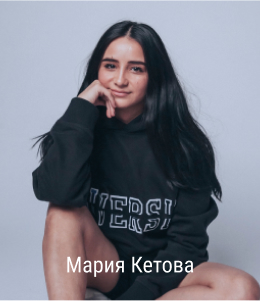
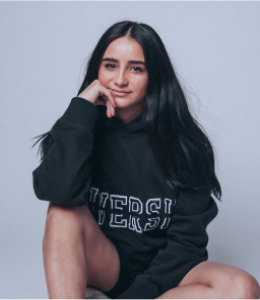
Updated images Updated juri section

diff --git a/source/index.html b/source/index.html
@@ -302,33 +302,37 @@
       <div class="juri__wrapper">
         <ul class="juri__list">
           <li class="juri__item juri-card">
-            <picture>
-              <source type="image/webp"
-                    srcset="img/juri/juri-1@1x.webp 1x, img/juri/juri-1@2x.webp 2x" width="280" height="300">
-              <img class="juri-card__image" src="img/juri/juri-1@1x.jpg" srcset="img/juri/juri-1@2x.jpg 2x" width="260"
-              height="301" alt="Анна Павлова">
-            </picture>
+            <div class="juri-card__image-wrapper">
+                <picture>
+                  <source type="image/webp"
+                        srcset="img/juri/juri-1@1x.webp 1x, img/juri/juri-1@2x.webp 2x" width="260" height="300">
+                  <img class="juri-card__image" src="img/juri/juri-1@1x.jpg" srcset="img/juri/juri-1@2x.jpg 2x" width="260"
+                  height="300" alt="Анна Павлова">
+              </picture>
+            </div>
             <div class="juri-card__details">
               <p class="juri-card__title">
                 Анна Павлова
               </p>
               <div class="juri-card__info">
                 <p class="juri-card__sport">CrossFit</p>
-                <ul class="juri-card__achievements achievements">
-                  <li class="achievements__item">Certified Level 3 Trainer</li>
-                  <li class="achievements__item">Победитель чемпионата России по CrossFit</li>
-                  <li class="achievements__item">Опыт — 6 лет</li>
+                <ul class="juri-card__achievement-list">
+                  <li class="juri-card__achievement-item">Certified Level 3 Trainer</li>
+                  <li class="juri-card__achievement-item">Победитель чемпионата России по CrossFit</li>
+                  <li class="juri-card__achievement-item">Опыт — 6 лет</li>
                 </ul>
               </div>
             </div>
           </li>
           <li class="juri__item juri-card">
-            <picture>
-              <source type="image/webp"
-                    srcset="img/juri/juri-2@1x.webp 1x, img/juri/juri-2@2x.webp 2x" width="280" height="300">
-              <img class="juri-card__image" src="img/juri/juri-2@1x.jpg" srcset="img/juri/juri-2@2x.jpg 2x" width="260"
-              height="301" alt="Алексей Лавров">
-            </picture>
+            <div class="juri-card__image-wrapper">
+              <picture>
+                <source type="image/webp"
+                      srcset="img/juri/juri-2@1x.webp 1x, img/juri/juri-2@2x.webp 2x" width="260" height="300">
+                <img class="juri-card__image" src="img/juri/juri-2@1x.jpg" srcset="img/juri/juri-2@2x.jpg 2x" width="260"
+                height="300" alt="Алексей Лавров">
+              </picture>
+            </div>
             <div class="juri-card__details">
               <p class="juri-card__title">
                 Алексей Лавров
@@ -344,12 +348,14 @@
             </div>
           </li>
           <li class="juri__item juri-card">
-            <picture>
-              <source type="image/webp"
-                    srcset="img/juri/juri-3@1x.webp 1x, img/juri/juri-3@2x.webp 2x" width="280" height="300">
-              <img class="juri-card__image" src="img/juri/juri-3@1x.jpg" srcset="img/juri/juri-3@2x.jpg 2x" width="260"
-              height="301" alt="Александр Пашков">
-            </picture>
+            <div class="juri-card__image-wrapper">
+              <picture>
+                <source type="image/webp"
+                      srcset="img/juri/juri-3@1x.webp 1x, img/juri/juri-3@2x.webp 2x" width="260" height="300">
+                <img class="juri-card__image" src="img/juri/juri-3@1x.jpg" srcset="img/juri/juri-3@2x.jpg 2x" width="260"
+                height="300" alt="Александр Пашков">
+              </picture>
+            </div>
             <div class="juri-card__details">
               <p class="juri-card__title">
                 Александр Пашков
@@ -365,12 +371,14 @@
             </div>
           </li>
           <li class="juri__item juri-card">
-            <picture>
-              <source type="image/webp"
-                    srcset="img/juri/juri-4@1x.webp 1x, img/juri/juri-4@2x.webp 2x" width="280" height="300">
-              <img class="juri-card__image" src="img/juri/juri-4@1x.jpg" srcset="img/juri/juri-4@2x.jpg 2x" width="260"
-              height="301" alt="Мария Кетова">
-            </picture>
+            <div class="juri-card__image-wrapper">
+              <picture>
+                <source type="image/webp"
+                      srcset="img/juri/juri-4@1x.webp 1x, img/juri/juri-4@2x.webp 2x" width="260" height="300">
+                <img class="juri-card__image" src="img/juri/juri-4@1x.jpg" srcset="img/juri/juri-4@2x.jpg 2x" width="260"
+                height="300" alt="Мария Кетова">
+              </picture>
+            </div>
             <div class="juri-card__details">
               <p class="juri-card__title">
                 Мария Кетова

diff --git a/source/sass/blocks/juri-card.scss b/source/sass/blocks/juri-card.scss
@@ -2,24 +2,95 @@
 @use "../common/mixins.scss";
 
 .juri-card {
-  position: relative;
+  display: grid;
+  width: 100%;
+  height: 100%;
+  max-width: 260px;
+  background-color: variables.$background-color-accent;
+
+  @include mixins.mobile {
+    display: none;
+
+    &:first-child {
+      display: grid;
+    }
+  }
+
+  &:hover .juri-card__info {
+    display: block;
+  }
+
+  &:hover .juri-card__details {
+    height: 100%;
+    background-color: rgba(variables.$background-color-accent, 0.89);
+  }
+}
+
+.juri-card__image-wrapper {
+  grid-column: 1 / 2;
+  grid-row: 1 / 2;
   display: flex;
-  flex-direction: column;
   align-items: center;
   justify-content: center;
 }
 
-.juri-card__info {
-  position: absolute;
-  z-index: 1;
-  top: 0;
-  bottom: 0;
-  left: 0;
-  right: 0;
-  background-color: rgba(variables.$background-color-accent, 0.89);
-  box-shadow: 0 0 35px 0 variables.$shadow-color-primary;
+.juri-card__image {
+  display: block;
+  object-fit: cover;
 }
 
-.juri-card__achievements {
+.juri-card__details {
+  padding: 42px 20px 20px 10px;
+  place-self: end center;
+  display: grid;
+  grid-template-rows: min-content;
+  grid-column: 1 / 2;
+  grid-row: 1 / 2;
+  color: variables.$font-color-secondary;
+}
+
+.juri-card__title {
+  @include mixins.font-info(variables.$font-primary, 22px, 22px);
+  text-align: center;
+  margin: 0;
+  padding: 0;
+  z-index: 2;
+}
+
+.juri-card__info {
+  display: none;
+  place-self: start center;
+  z-index: 1;
+}
+
+.juri-card__sport {
+  margin: 0 0 28px;
+  padding: 0;
+  text-align: center;
+  color: variables.$font-color-tertiary;
+}
+
+.juri-card__achievement-list {
   @include mixins.list-base();
+  display: flex;
+  flex-direction: column;
+  gap: 12px;
+  padding: 0 0 0 16px;
+}
+
+.juri-card__achievement-item {
+  @include mixins.font-info(variables.$font-primary, 14px, 22px);
+  position: relative;
+  padding: 0 0 0 16px;
+
+  &:before {
+    content: "";
+    width: 6px;
+    height: 6px;
+    left: 0;
+    top: 7px;
+    position: absolute;
+    background-color: variables.$font-color-secondary;
+    border-radius: 50%;
+  }
 }

diff --git a/source/sass/common/variables.scss b/source/sass/common/variables.scss
@@ -5,6 +5,7 @@ $font-secondary: "Alumni Sans", "Arial", sans-serif;
 //Text Colors
 $font-color-primary: #102654;
 $font-color-secondary: #FFFFFF;
+$font-color-tertiary: #B6BDCC;
 $font-color-accent: #103AAE;
 $font-color-alternate: linear-gradient(129deg, #d10a42 0%, #0041ca 100%);;
 $font-color-shadow: #E8E8E8;

diff --git a/source/sass/blocks/juri.scss b/source/sass/blocks/juri.scss
@@ -12,6 +12,10 @@
 
 .juri__list {
   @include mixins.list-base();
+  display: flex;
+  flex-direction: column;
+  align-items: center;
+  gap: 40px;
 }
 
 .juri__button {
